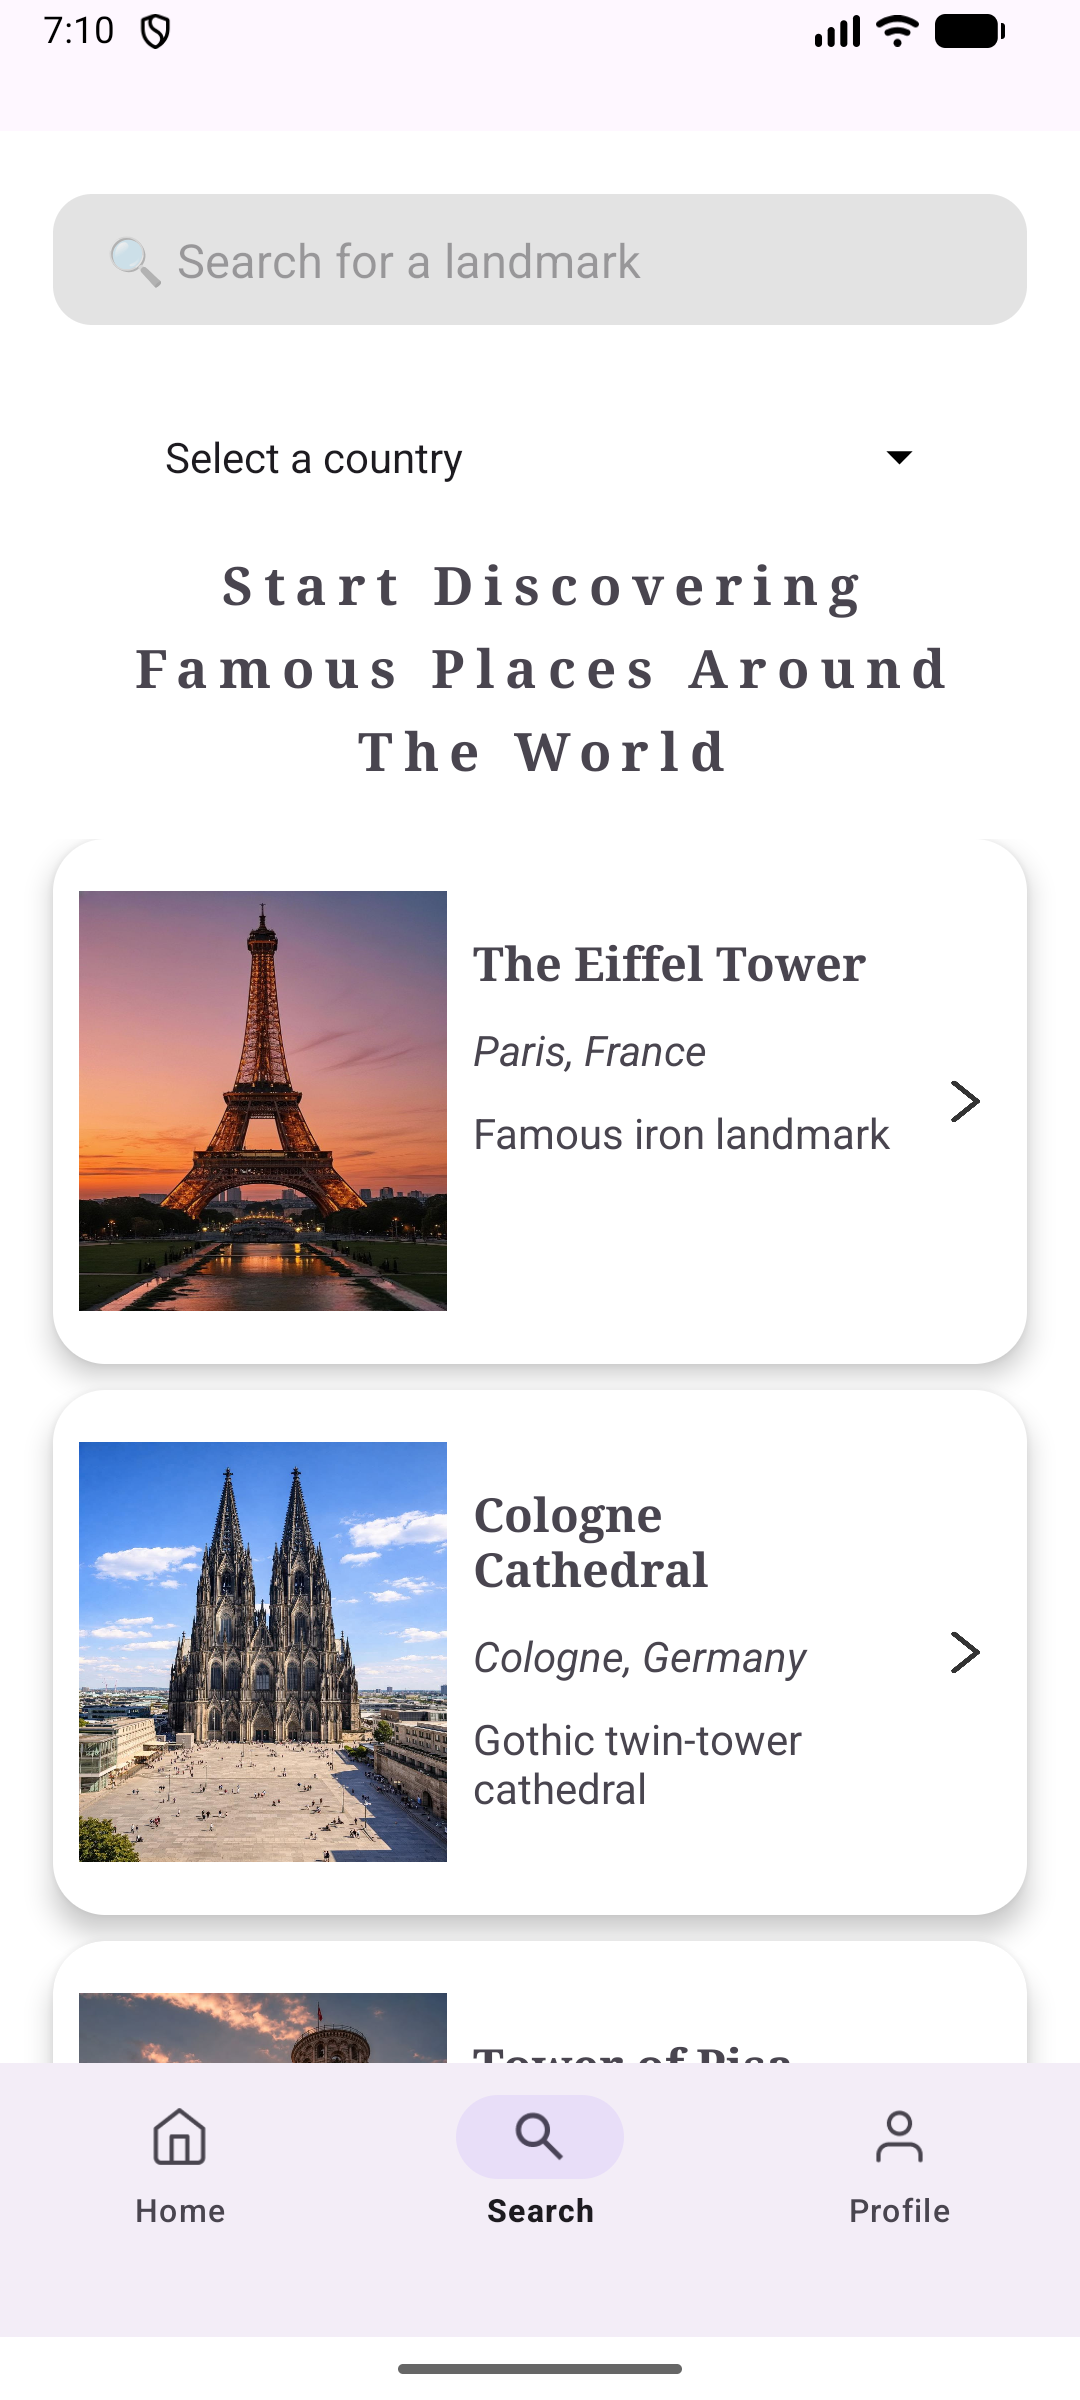
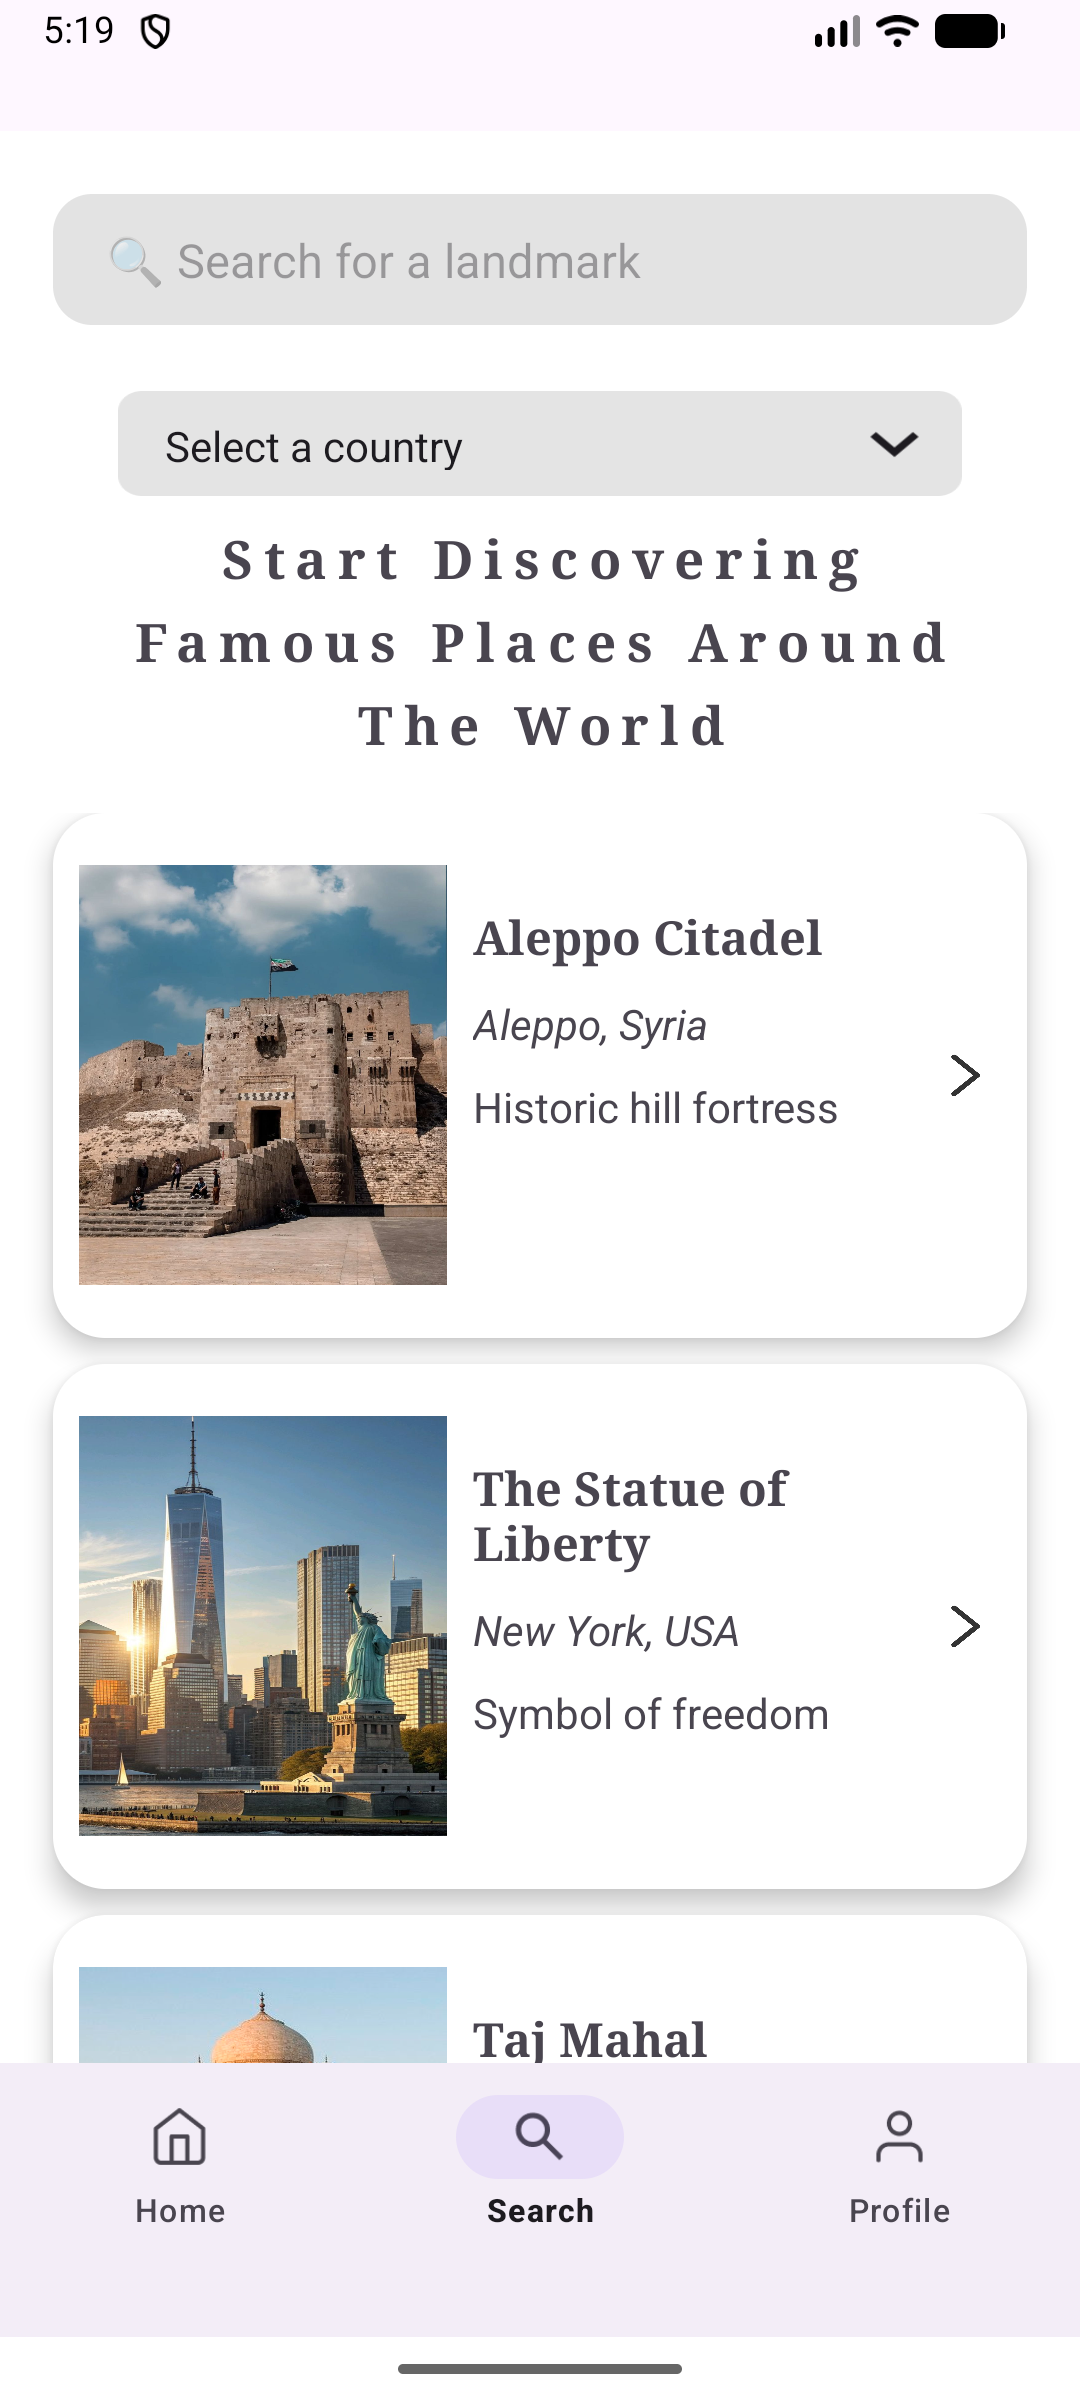
Updating the search feature in the search activity

diff --git a/app/src/main/java/com/example/tourismapp/SearchActivity.java b/app/src/main/java/com/example/tourismapp/SearchActivity.java
@@ -31,6 +31,9 @@ public class SearchActivity extends AppCompatActivity {
     BottomNavigationView bnvBar;
     AutoCompleteTextView autoTVLandmark;
     Spinner spCountry;
+    AppDatabase dbHelper = new AppDatabase(this);
+    SQLiteDatabase db;
+    String selectedCountry = "", searchLandmark = "";
 
     @Override
     protected void onCreate(Bundle savedInstanceState) {
@@ -39,13 +42,13 @@ public class SearchActivity extends AppCompatActivity {
         setContentView(R.layout.activity_search);
         getWindow().setStatusBarColor(Color.TRANSPARENT);
 
-        AppDatabase dbHelper = new AppDatabase(this);
-        SQLiteDatabase db = dbHelper.getWritableDatabase();
 
         recycleLandmarks = (RecyclerView) findViewById(R.id.displayLandmarks);
         bnvBar = (BottomNavigationView) findViewById(R.id.bottomBarSearch);
         autoTVLandmark = (AutoCompleteTextView) findViewById(R.id.searchALandmark);
         spCountry = (Spinner) findViewById(R.id.searchByCountrySpinner);
+
+        db = dbHelper.getWritableDatabase();
 
         // To get all the landmarks in a random order to be displayed in the search screen
         Cursor cursor = db.rawQuery("SELECT Name, Location, ShortDescription, SearchImage FROM Landmark ORDER BY Random()", null);
@@ -61,19 +64,8 @@ public class SearchActivity extends AppCompatActivity {
             // While the user is typing we retrieve the landmarks that contains the entered text from the user
             @Override
             public void onTextChanged(CharSequence s, int start, int before, int count) {
-                String searchValue = s.toString().toLowerCase();
-                ArrayList<LandmarkModel> newList = new ArrayList<>();
-                if (cursor.moveToFirst()) {
-                    do {
-                        if (cursor.getString(0).toLowerCase().contains(searchValue)) {
-                            newList.add(new LandmarkModel(cursor.getString(0), cursor.getString(1),
-                                    cursor.getString(2), cursor.getString(3)));
-                        }
-                    } while (cursor.moveToNext());
-                }
-                LandmarkAdapter newAdapter = new LandmarkAdapter(SearchActivity.this, newList);
-                recycleLandmarks.setLayoutManager(new LinearLayoutManager(SearchActivity.this));
-                recycleLandmarks.setAdapter(newAdapter);
+                searchLandmark = s.toString().toLowerCase();
+                filterResults(searchLandmark, selectedCountry);
             }
         });
 
@@ -93,21 +85,9 @@ public class SearchActivity extends AppCompatActivity {
         spCountry.setOnItemSelectedListener(new AdapterView.OnItemSelectedListener() {
             @Override
             public void onItemSelected(AdapterView<?> parent, View view, int index, long id) {
-                autoTVLandmark.setText("");
-                if (index != 0){
-                    String country = spList.get(index);
-                    ArrayList<LandmarkModel> newList = new ArrayList<>();
-                    Cursor cursor3 = db.rawQuery("SELECT Name, Location, ShortDescription, SearchImage, CountryId FROM Landmark WHERE CountryID = (SELECT ID FROM Country WHERE Name = ?) " +
-                            "ORDER BY Random() LIMIT 10", new String [] {country});
-                    if (cursor3.moveToFirst()) {
-                        do {
-                            newList.add(new LandmarkModel(cursor3.getString(0), cursor3.getString(1),
-                                    cursor3.getString(2), cursor3.getString(3)));
-                        } while (cursor3.moveToNext());
-                    }
-                    LandmarkAdapter newAdapter = new LandmarkAdapter(SearchActivity.this, newList);
-                    recycleLandmarks.setLayoutManager(new LinearLayoutManager(SearchActivity.this));
-                    recycleLandmarks.setAdapter(newAdapter);
+                if (index != 0) {
+                    selectedCountry = spList.get(index);
+                    filterResults(searchLandmark, selectedCountry);
                 }
                 else {
                     showAllLandmarks(cursor);
@@ -152,5 +132,31 @@ public class SearchActivity extends AppCompatActivity {
         LandmarkAdapter adapter = new LandmarkAdapter(this, list);
         recycleLandmarks.setLayoutManager(new LinearLayoutManager(this));
         recycleLandmarks.setAdapter(adapter);
+    }
+
+    public void filterResults(String searchLandmark, String selectedCountry) {
+        ArrayList<LandmarkModel> list = new ArrayList<>();
+        String query;
+        String values[];
+        if (!selectedCountry.isEmpty()) {
+            query = "SELECT Name, Location, ShortDescription, SearchImage FROM Landmark WHERE name LIKE ? AND countryId = (SELECT id FROM Country WHERE name LIKE ?)";
+            values = new String [] {"%" + searchLandmark + "%", selectedCountry};
+        }
+        else {
+            query = "SELECT Name, Location, ShortDescription, SearchImage FROM Landmark WHERE name LIKE ?";
+            values = new String [] {"%" + searchLandmark + "%"};
+        }
+
+        Cursor cc = db.rawQuery(query, values);
+
+        if (cc.moveToFirst()) {
+            do {
+                list.add(new LandmarkModel(cc.getString(0), cc.getString(1), cc.getString(2), cc.getString(3)));
+            } while (cc.moveToNext());
+        }
+
+        LandmarkAdapter newAdapter = new LandmarkAdapter(SearchActivity.this, list);
+        recycleLandmarks.setLayoutManager(new LinearLayoutManager(SearchActivity.this));
+        recycleLandmarks.setAdapter(newAdapter);
     }
 }